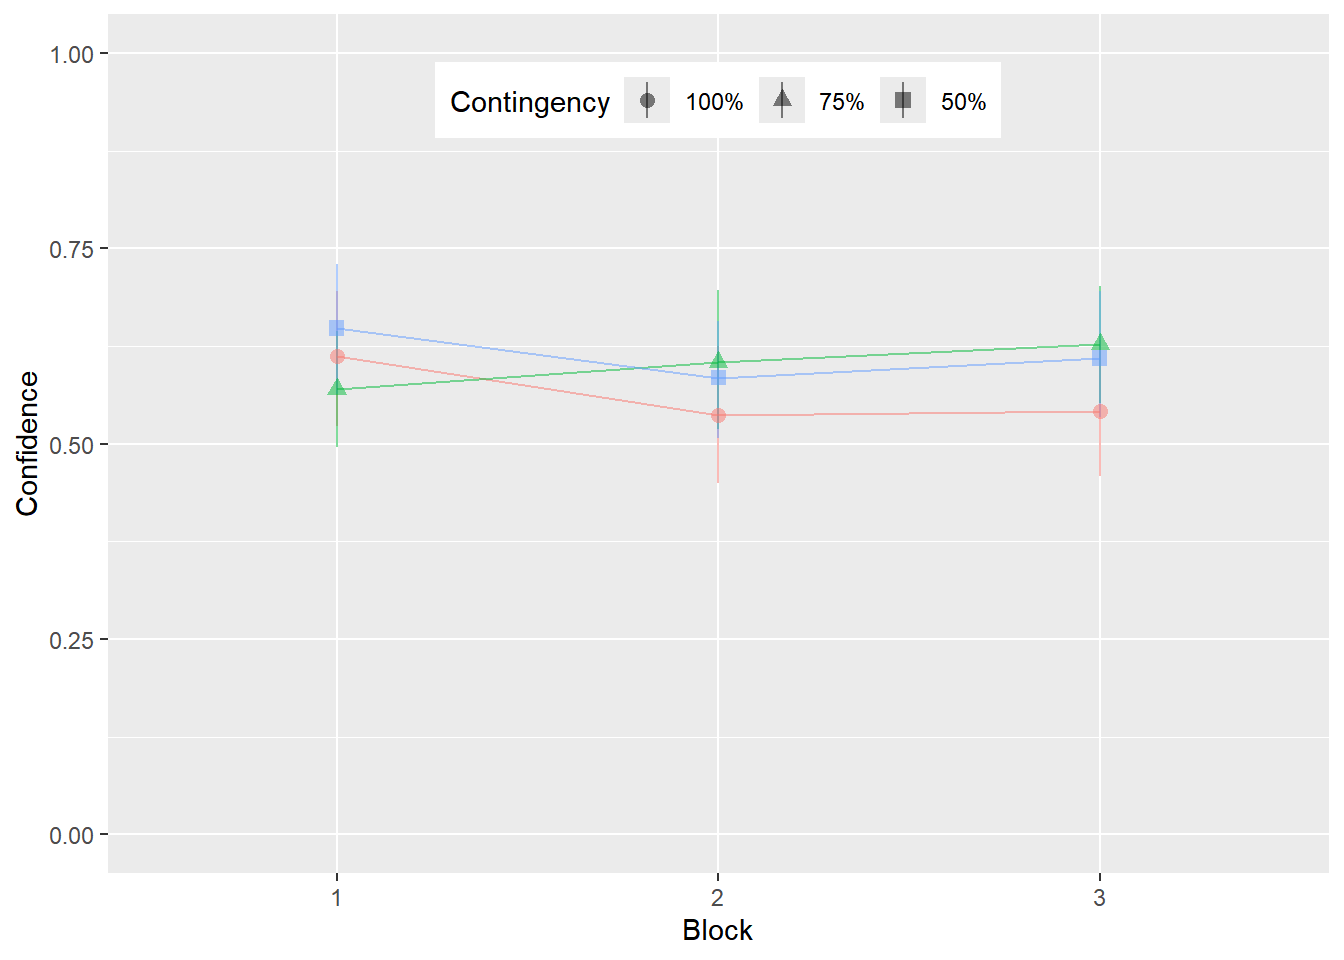
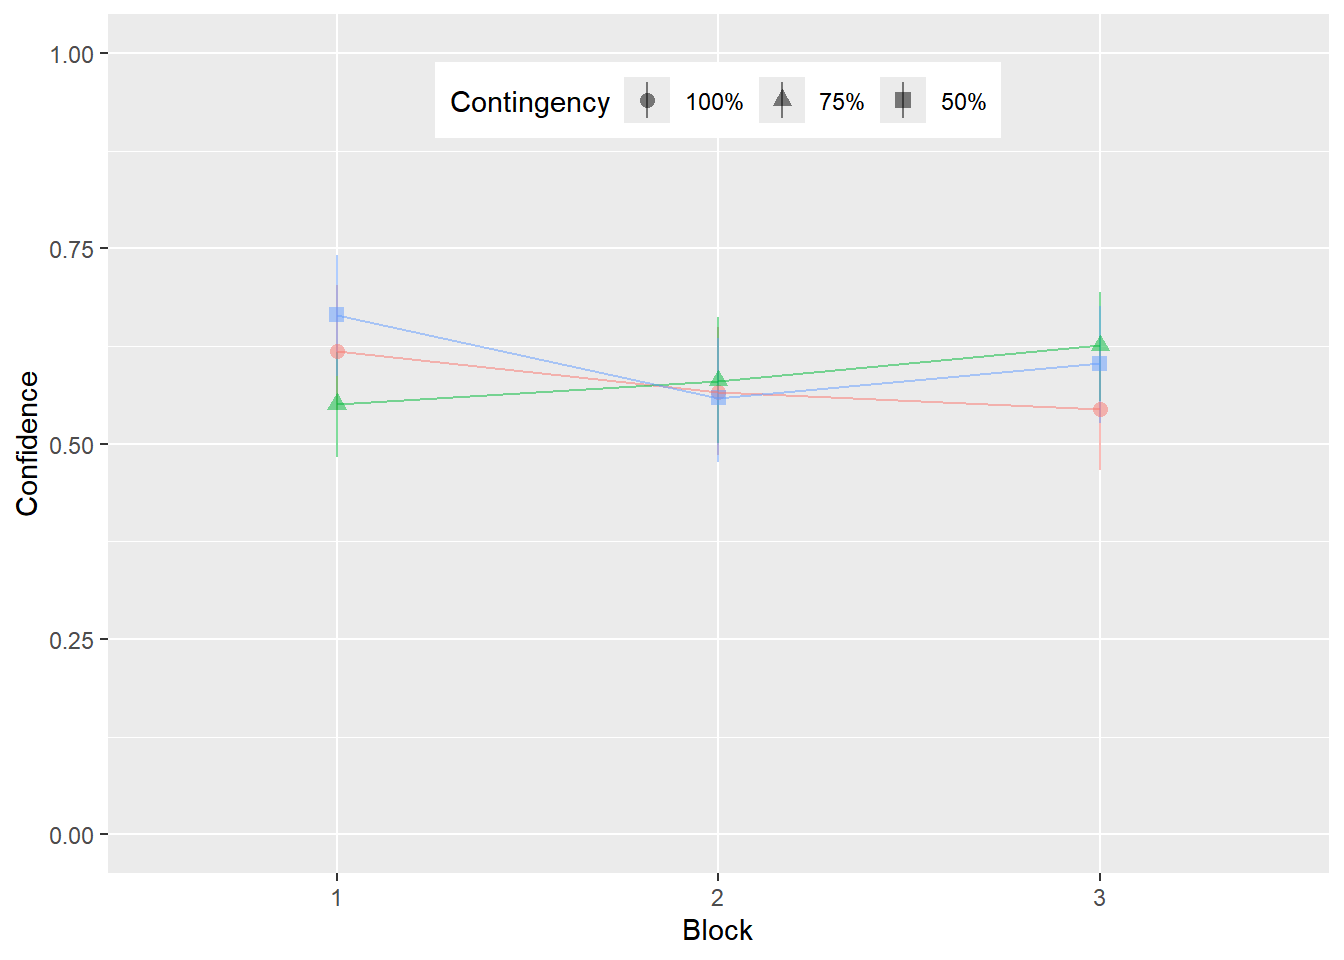
Downloading new data

Changed region(s): [[0.2188, 0.3125, 0.8438, 0.4375]]

diff --git a/Analysis/20251102_Script.html b/Analysis/20251102_Script.html
@@ -107,7 +107,7 @@ pre > code.sourceCode > span > a:first-child::before { text-decoration: underlin
 
 <section id="setup" class="level1">
 <h1>Setup</h1>
-<p>First I setup my environment and save information about my data files. I’ll also load in my data and save it into a single data.table.</p>
+<p>First I setup the environment and save information about my data files. I’ll also load in data and save it into a single data.table.</p>
 <div class="cell">
 <div class="sourceCode cell-code" id="cb1"><pre class="sourceCode r code-with-copy"><code class="sourceCode r"><span id="cb1-1"><a href="#cb1-1" aria-hidden="true" tabindex="-1"></a><span class="co"># Clear console and plot viewer</span></span>
 <span id="cb1-2"><a href="#cb1-2" aria-hidden="true" tabindex="-1"></a><span class="fu">cat</span>(<span class="st">"</span><span class="sc">\014</span><span class="st">"</span>)</span></code><button title="Copy to Clipboard" class="code-copy-button"><i class="bi"></i></button></pre></div>
@@ -116,8 +116,8 @@ pre > code.sourceCode > span > a:first-child::before { text-decoration: underlin
 <span id="cb2-2"><a href="#cb2-2" aria-hidden="true" tabindex="-1"></a><span class="fu">rm</span>(<span class="at">list =</span> <span class="fu">ls</span>(<span class="at">all.names =</span> <span class="cn">TRUE</span>))</span>
 <span id="cb2-3"><a href="#cb2-3" aria-hidden="true" tabindex="-1"></a></span>
 <span id="cb2-4"><a href="#cb2-4" aria-hidden="true" tabindex="-1"></a><span class="co"># Load packages</span></span>
-<span id="cb2-5"><a href="#cb2-5" aria-hidden="true" tabindex="-1"></a><span class="fu">c</span>(<span class="st">"beepr"</span>, <span class="st">"data.table"</span>, <span class="st">"ggplot2"</span>,</span>
-<span id="cb2-6"><a href="#cb2-6" aria-hidden="true" tabindex="-1"></a>  <span class="st">"ggdist"</span>, <span class="st">"here"</span>, <span class="st">"pcjtools"</span>) <span class="sc">|&gt;</span></span>
+<span id="cb2-5"><a href="#cb2-5" aria-hidden="true" tabindex="-1"></a><span class="fu">c</span>(<span class="st">"beepr"</span>, <span class="st">"data.table"</span>, <span class="st">"emmeans"</span>, <span class="st">"ggplot2"</span>,</span>
+<span id="cb2-6"><a href="#cb2-6" aria-hidden="true" tabindex="-1"></a>  <span class="st">"ggdist"</span>, <span class="st">"here"</span>, <span class="st">"lme4"</span>, <span class="st">"lmerTest"</span>, <span class="st">"pcjtools"</span>) <span class="sc">|&gt;</span></span>
 <span id="cb2-7"><a href="#cb2-7" aria-hidden="true" tabindex="-1"></a>  purrr<span class="sc">::</span><span class="fu">map</span>(<span class="at">.f =</span> library, <span class="at">character.only =</span> T) <span class="sc">|&gt;</span></span>
 <span id="cb2-8"><a href="#cb2-8" aria-hidden="true" tabindex="-1"></a>  <span class="fu">invisible</span>()</span>
 <span id="cb2-9"><a href="#cb2-9" aria-hidden="true" tabindex="-1"></a></span>
@@ -173,13 +173,13 @@ pre > code.sourceCode > span > a:first-child::before { text-decoration: underlin
 <span id="cb2-59"><a href="#cb2-59" aria-hidden="true" tabindex="-1"></a>         <span class="at">avg_rt =</span> <span class="fu">mean</span>(rt, <span class="at">na.rm =</span> <span class="cn">TRUE</span>),</span>
 <span id="cb2-60"><a href="#cb2-60" aria-hidden="true" tabindex="-1"></a>         <span class="at">med_rt =</span> <span class="fu">median</span>(rt, <span class="at">na.rm =</span> <span class="cn">TRUE</span>)</span>
 <span id="cb2-61"><a href="#cb2-61" aria-hidden="true" tabindex="-1"></a>       ), by <span class="ot">=</span> <span class="fu">list</span>(sona_id, block)</span>
-<span id="cb2-62"><a href="#cb2-62" aria-hidden="true" tabindex="-1"></a>       ][(med_rt <span class="sc">&lt;</span> <span class="dv">10</span> <span class="sc">&amp;</span> avg_rt <span class="sc">&lt;</span> <span class="dv">17</span>) <span class="sc">&amp;</span> avg_confidence <span class="sc">&gt;</span> <span class="fl">0.5</span>,</span>
+<span id="cb2-62"><a href="#cb2-62" aria-hidden="true" tabindex="-1"></a>       ][(med_rt <span class="sc">&lt;</span> <span class="dv">15</span> <span class="sc">&amp;</span> avg_rt <span class="sc">&lt;</span> <span class="dv">15</span>) <span class="sc">&amp;</span> avg_confidence <span class="sc">&gt;</span> <span class="fl">0.5</span>,</span>
 <span id="cb2-63"><a href="#cb2-63" aria-hidden="true" tabindex="-1"></a>       ] <span class="ot">-&gt;</span> dt_results</span>
 <span id="cb2-64"><a href="#cb2-64" aria-hidden="true" tabindex="-1"></a></span>
 <span id="cb2-65"><a href="#cb2-65" aria-hidden="true" tabindex="-1"></a><span class="co"># Finally, count the number of subjects retained after exclusion</span></span>
 <span id="cb2-66"><a href="#cb2-66" aria-hidden="true" tabindex="-1"></a><span class="fu">length</span>(<span class="fu">table</span>(dt_results<span class="sc">$</span>sona_id)) <span class="ot">-&gt;</span> n_subjects_retained</span></code><button title="Copy to Clipboard" class="code-copy-button"><i class="bi"></i></button></pre></div>
 </div>
-<p>Initially, we’ve collected data from 84 subjects. After exclusions, we retain data from 50 participants (60%) who had med response times &lt; 10 seconds, mean RTs under 17 seconds, and had an average confidence in their ratings &gt; 0.5.</p>
+<p>Initially, we’ve collected data from 83 subjects. After exclusions, we retain data from 56 participants (67%) who had med response times &lt; 10 seconds, mean RTs under 17 seconds, and had an average confidence in their ratings &gt; 0.5.</p>
 <p>Now plot the average confidence rating for each contingency condition across the three learning and test blocks:</p>
 <div class="cell">
 <div class="cell-output-display">
@@ -241,6 +241,113 @@ pre > code.sourceCode > span > a:first-child::before { text-decoration: underlin
 <p><img src="20251102_Script_files/figure-html/unnamed-chunk-1-1.png" class="img-fluid figure-img" width="672"></p>
 </figure>
 </div>
+</div>
+</div>
+<div class="cell">
+<div class="sourceCode cell-code" id="cb4"><pre class="sourceCode r code-with-copy"><code class="sourceCode r"><span id="cb4-1"><a href="#cb4-1" aria-hidden="true" tabindex="-1"></a><span class="co"># Calculate difference from 50% baseline for each subject and block</span></span>
+<span id="cb4-2"><a href="#cb4-2" aria-hidden="true" tabindex="-1"></a>dt_results[, .(</span>
+<span id="cb4-3"><a href="#cb4-3" aria-hidden="true" tabindex="-1"></a>  <span class="at">confidence =</span> <span class="fu">mean</span>(confidence, <span class="at">na.rm =</span> <span class="cn">TRUE</span>)</span>
+<span id="cb4-4"><a href="#cb4-4" aria-hidden="true" tabindex="-1"></a>), by <span class="ot">=</span> .(sona_id, block, contingency)</span>
+<span id="cb4-5"><a href="#cb4-5" aria-hidden="true" tabindex="-1"></a>][, baseline_50 <span class="sc">:</span><span class="er">=</span> confidence[contingency <span class="sc">==</span> <span class="st">"50"</span>], </span>
+<span id="cb4-6"><a href="#cb4-6" aria-hidden="true" tabindex="-1"></a>  by <span class="ot">=</span> .(sona_id, block)</span>
+<span id="cb4-7"><a href="#cb4-7" aria-hidden="true" tabindex="-1"></a>][, confidence_diff <span class="sc">:</span><span class="er">=</span> confidence <span class="sc">-</span> baseline_50</span>
+<span id="cb4-8"><a href="#cb4-8" aria-hidden="true" tabindex="-1"></a>] <span class="ot">-&gt;</span> dt_diff</span>
+<span id="cb4-9"><a href="#cb4-9" aria-hidden="true" tabindex="-1"></a></span>
+<span id="cb4-10"><a href="#cb4-10" aria-hidden="true" tabindex="-1"></a><span class="co"># Now plot the differences</span></span>
+<span id="cb4-11"><a href="#cb4-11" aria-hidden="true" tabindex="-1"></a><span class="fu">ggplot</span>(</span>
+<span id="cb4-12"><a href="#cb4-12" aria-hidden="true" tabindex="-1"></a>  <span class="at">data =</span> dt_diff[contingency <span class="sc">!=</span> <span class="st">"50"</span>],</span>
+<span id="cb4-13"><a href="#cb4-13" aria-hidden="true" tabindex="-1"></a>  <span class="at">mapping =</span> <span class="fu">aes</span>(</span>
+<span id="cb4-14"><a href="#cb4-14" aria-hidden="true" tabindex="-1"></a>    <span class="at">x =</span> <span class="fu">factor</span>(block),</span>
+<span id="cb4-15"><a href="#cb4-15" aria-hidden="true" tabindex="-1"></a>    <span class="at">y =</span> confidence_diff,</span>
+<span id="cb4-16"><a href="#cb4-16" aria-hidden="true" tabindex="-1"></a>    <span class="at">fill =</span> <span class="fu">factor</span>(contingency, <span class="at">labels =</span> <span class="fu">c</span>(<span class="st">"100%"</span>, <span class="st">"75%"</span>)),</span>
+<span id="cb4-17"><a href="#cb4-17" aria-hidden="true" tabindex="-1"></a>    <span class="at">group =</span> contingency</span>
+<span id="cb4-18"><a href="#cb4-18" aria-hidden="true" tabindex="-1"></a>  )</span>
+<span id="cb4-19"><a href="#cb4-19" aria-hidden="true" tabindex="-1"></a>) <span class="sc">+</span></span>
+<span id="cb4-20"><a href="#cb4-20" aria-hidden="true" tabindex="-1"></a>  <span class="fu">stat_halfeye</span>(<span class="at">point_interval =</span> <span class="st">"mean_qi"</span>,</span>
+<span id="cb4-21"><a href="#cb4-21" aria-hidden="true" tabindex="-1"></a>               <span class="at">fill_type =</span> <span class="st">"segments"</span>, <span class="at">alpha =</span> <span class="fl">0.5</span>) <span class="sc">+</span></span>
+<span id="cb4-22"><a href="#cb4-22" aria-hidden="true" tabindex="-1"></a>  <span class="fu">stat_summary</span>(</span>
+<span id="cb4-23"><a href="#cb4-23" aria-hidden="true" tabindex="-1"></a>    <span class="at">fun =</span> mean,</span>
+<span id="cb4-24"><a href="#cb4-24" aria-hidden="true" tabindex="-1"></a>    <span class="at">geom =</span> <span class="st">"line"</span>,</span>
+<span id="cb4-25"><a href="#cb4-25" aria-hidden="true" tabindex="-1"></a>    <span class="at">alpha =</span> <span class="fl">0.6</span>,</span>
+<span id="cb4-26"><a href="#cb4-26" aria-hidden="true" tabindex="-1"></a>    <span class="at">linewidth =</span> <span class="dv">1</span></span>
+<span id="cb4-27"><a href="#cb4-27" aria-hidden="true" tabindex="-1"></a>  ) <span class="sc">+</span></span>
+<span id="cb4-28"><a href="#cb4-28" aria-hidden="true" tabindex="-1"></a>  <span class="fu">facet_wrap</span>(<span class="at">facets =</span> <span class="st">"contingency"</span>) <span class="sc">+</span></span>
+<span id="cb4-29"><a href="#cb4-29" aria-hidden="true" tabindex="-1"></a>  <span class="fu">geom_hline</span>(</span>
+<span id="cb4-30"><a href="#cb4-30" aria-hidden="true" tabindex="-1"></a>    <span class="at">yintercept =</span> <span class="dv">0</span>,  <span class="co"># Changed to 0 since we're plotting differences</span></span>
+<span id="cb4-31"><a href="#cb4-31" aria-hidden="true" tabindex="-1"></a>    <span class="at">linetype =</span> <span class="st">"dashed"</span>,</span>
+<span id="cb4-32"><a href="#cb4-32" aria-hidden="true" tabindex="-1"></a>    <span class="at">color =</span> <span class="st">"red"</span>,</span>
+<span id="cb4-33"><a href="#cb4-33" aria-hidden="true" tabindex="-1"></a>    <span class="at">alpha =</span> .<span class="dv">4</span>,</span>
+<span id="cb4-34"><a href="#cb4-34" aria-hidden="true" tabindex="-1"></a>    <span class="at">lwd =</span> <span class="fl">1.5</span></span>
+<span id="cb4-35"><a href="#cb4-35" aria-hidden="true" tabindex="-1"></a>  ) <span class="sc">+</span></span>
+<span id="cb4-36"><a href="#cb4-36" aria-hidden="true" tabindex="-1"></a>  <span class="fu">theme</span>(</span>
+<span id="cb4-37"><a href="#cb4-37" aria-hidden="true" tabindex="-1"></a>    <span class="at">panel.border =</span> <span class="fu">element_rect</span>(</span>
+<span id="cb4-38"><a href="#cb4-38" aria-hidden="true" tabindex="-1"></a>      <span class="at">color =</span> <span class="st">"black"</span>,</span>
+<span id="cb4-39"><a href="#cb4-39" aria-hidden="true" tabindex="-1"></a>      <span class="at">fill =</span> <span class="cn">NA</span>,</span>
+<span id="cb4-40"><a href="#cb4-40" aria-hidden="true" tabindex="-1"></a>      <span class="at">linewidth =</span> <span class="dv">2</span>),</span>
+<span id="cb4-41"><a href="#cb4-41" aria-hidden="true" tabindex="-1"></a>    <span class="at">panel.background =</span> <span class="fu">element_rect</span>(</span>
+<span id="cb4-42"><a href="#cb4-42" aria-hidden="true" tabindex="-1"></a>      <span class="at">fill =</span> <span class="st">"white"</span></span>
+<span id="cb4-43"><a href="#cb4-43" aria-hidden="true" tabindex="-1"></a>    ),</span>
+<span id="cb4-44"><a href="#cb4-44" aria-hidden="true" tabindex="-1"></a>    <span class="at">strip.background =</span> <span class="fu">element_blank</span>(),</span>
+<span id="cb4-45"><a href="#cb4-45" aria-hidden="true" tabindex="-1"></a>    <span class="at">strip.text =</span> <span class="fu">element_blank</span>(),</span>
+<span id="cb4-46"><a href="#cb4-46" aria-hidden="true" tabindex="-1"></a>    <span class="at">legend.position =</span> <span class="st">"top"</span>,</span>
+<span id="cb4-47"><a href="#cb4-47" aria-hidden="true" tabindex="-1"></a>    <span class="at">legend.direction =</span> <span class="st">"horizontal"</span></span>
+<span id="cb4-48"><a href="#cb4-48" aria-hidden="true" tabindex="-1"></a>  ) <span class="sc">+</span></span>
+<span id="cb4-49"><a href="#cb4-49" aria-hidden="true" tabindex="-1"></a>  <span class="fu">labs</span>(</span>
+<span id="cb4-50"><a href="#cb4-50" aria-hidden="true" tabindex="-1"></a>    <span class="at">fill =</span> <span class="st">"Contingency:"</span>,</span>
+<span id="cb4-51"><a href="#cb4-51" aria-hidden="true" tabindex="-1"></a>    <span class="at">y =</span> <span class="st">"Confidence (Difference from 50% Baseline)"</span>,</span>
+<span id="cb4-52"><a href="#cb4-52" aria-hidden="true" tabindex="-1"></a>    <span class="at">x =</span> <span class="st">"Test Point"</span></span>
+<span id="cb4-53"><a href="#cb4-53" aria-hidden="true" tabindex="-1"></a>  )</span></code><button title="Copy to Clipboard" class="code-copy-button"><i class="bi"></i></button></pre></div>
+<div class="cell-output-display">
+<div>
+<figure class="figure">
+<p><img src="20251102_Script_files/figure-html/unnamed-chunk-2-1.png" class="img-fluid figure-img" width="672"></p>
+</figure>
+</div>
+</div>
+</div>
+<div class="cell">
+<div class="sourceCode cell-code" id="cb5"><pre class="sourceCode r code-with-copy"><code class="sourceCode r"><span id="cb5-1"><a href="#cb5-1" aria-hidden="true" tabindex="-1"></a><span class="co"># Mixed model with random intercept for subject</span></span>
+<span id="cb5-2"><a href="#cb5-2" aria-hidden="true" tabindex="-1"></a>lmm <span class="ot">&lt;-</span> <span class="fu">lmer</span>(confidence_diff <span class="sc">~</span> contingency <span class="sc">*</span> block <span class="sc">+</span> (<span class="dv">1</span><span class="sc">|</span>sona_id), </span>
+<span id="cb5-3"><a href="#cb5-3" aria-hidden="true" tabindex="-1"></a>            <span class="at">data =</span> dt_diff[contingency <span class="sc">!=</span> <span class="st">"50"</span>])</span>
+<span id="cb5-4"><a href="#cb5-4" aria-hidden="true" tabindex="-1"></a><span class="fu">anova</span>(lmm)</span></code><button title="Copy to Clipboard" class="code-copy-button"><i class="bi"></i></button></pre></div>
+<div class="cell-output cell-output-stdout">
+<pre><code>Type III Analysis of Variance Table with Satterthwaite's method
+                    Sum Sq  Mean Sq NumDF  DenDF F value Pr(&gt;F)
+contingency       0.129506 0.129506     1 115.36  1.8279 0.1790
+block             0.017448 0.017448     1 178.82  0.2463 0.6203
+contingency:block 0.167856 0.167856     1 115.36  2.3692 0.1265</code></pre>
+</div>
+<div class="sourceCode cell-code" id="cb7"><pre class="sourceCode r code-with-copy"><code class="sourceCode r"><span id="cb7-1"><a href="#cb7-1" aria-hidden="true" tabindex="-1"></a><span class="fu">summary</span>(lmm)</span></code><button title="Copy to Clipboard" class="code-copy-button"><i class="bi"></i></button></pre></div>
+<div class="cell-output cell-output-stdout">
+<pre><code>Linear mixed model fit by REML. t-tests use Satterthwaite's method [
+lmerModLmerTest]
+Formula: confidence_diff ~ contingency * block + (1 | sona_id)
+   Data: dt_diff[contingency != "50"]
+
+REML criterion at convergence: 83.2
+
+Scaled residuals: 
+     Min       1Q   Median       3Q      Max 
+-2.99496 -0.49631 -0.01291  0.50646  2.43557 
+
+Random effects:
+ Groups   Name        Variance Std.Dev.
+ sona_id  (Intercept) 0.01761  0.1327  
+ Residual             0.07085  0.2662  
+Number of obs: 184, groups:  sona_id, 56
+
+Fixed effects:
+                     Estimate Std. Error        df t value Pr(&gt;|t|)
+(Intercept)           0.01386    0.07763 175.99687   0.179    0.859
+contingency75        -0.13884    0.10269 115.35704  -1.352    0.179
+block                -0.02406    0.03570 156.68441  -0.674    0.501
+contingency75:block   0.07425    0.04824 115.35704   1.539    0.126
+
+Correlation of Fixed Effects:
+            (Intr) cntn75 block 
+contngncy75 -0.661              
+block       -0.903  0.624       
+cntngncy75:  0.611 -0.924 -0.676</code></pre>
 </div>
 </div>
 </section>
